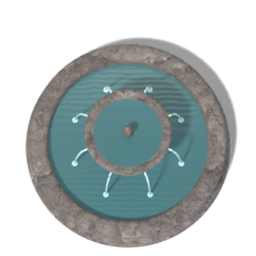
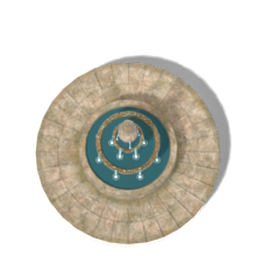
Fountain pictures from the medieval fountain model, water in the bowls

diff --git a/tools/render/build_fountain.py b/tools/render/build_fountain.py
@@ -1,23 +1,35 @@
 """Build + render a stone fountain standing on the ground (with a shadow).  Usage:
 blender -b -P build_fountain.py -- out.png '{"dry":false, "elev":45, ...}'
-A round basin with a pedestal carrying an upper bowl.  Running: both bowls hold water and streams fall from the
-upper bowl's lip into the basin.  Dry: no water, rubble and grime in the basin.
+The model is "Medieval Fountain Empty (Free)" by wolfgar74 (CC-BY 4.0, models/medieval_fountain, see CREDITS.md), with
+its own textures: a drum plinth carrying three stacked bowls and a spire.  Running: water is added in the bowls, with
+spouts from the spire's bulb and streams over the upper lips into the bowl below.  Dry: no water, grime where it
+stood and rubble.
 """
 import bpy, bmesh, math, os, random, sys, json
 from mathutils import Matrix, Vector
 sys.path.insert(0, os.path.dirname(os.path.abspath(__file__)))
-from render_common import link, mat, rig, render, rock_material, studio_world, spot
+from render_common import link, mat, rig, render, studio_world, spot
 
 args = sys.argv[sys.argv.index("--")+1:] if "--" in sys.argv else []
 OUT = args[0] if args else "fountain.png"
-P = dict(dry=False, stone=(0.3, 0.3, 0.31), rock_scale=0.8, water=(0.02, 0.07, 0.08), elev=90, seed=2, save_blend=False)
+P = dict(dry=False, size=2.0, water=(0.012, 0.05, 0.06), elev=90, seed=2, save_blend=False)
 if len(args) > 1:
     P.update(json.loads(args[1]))
 bpy.ops.wm.read_factory_settings(use_empty=True)
 sc = bpy.context.scene
 rnd = random.Random(P["seed"])
+MODEL = os.path.join(os.path.dirname(os.path.abspath(__file__)), "models", "medieval_fountain")
 
+bpy.ops.import_scene.gltf(filepath=os.path.join(MODEL, "scene.gltf"))
+bpy.context.view_layer.update()
 root = bpy.data.objects.new("Fountain", None); sc.collection.objects.link(root)
+K = P["size"]/250                                   # the model is 250 across, its plinth's foot at z=-125
+for o in [o for o in sc.objects if o.type == 'MESH']:
+    o.data.transform(Matrix.Translation((0, 0, 125*K)) @ Matrix.Scale(K, 4) @ o.matrix_world)   # bake + scale, foot at z=0
+    o.parent = root; o.matrix_world = Matrix.Identity(4)
+for o in [o for o in sc.objects if o.type == 'EMPTY' and o is not root]: bpy.data.objects.remove(o)
+Z = lambda z: (z + 125)*K                           # model heights / radii (measured by raycasting) to scene units
+R = lambda r: r*K
 
 def obj(name, bm, material, smooth=True):
     me = bpy.data.meshes.new(name); bm.to_mesh(me); bm.free()
@@ -25,83 +37,98 @@ def obj(name, bm, material, smooth=True):
     o = link(sc, name, me); o.parent = root; o.data.materials.append(material)
     return o
 
-def lathe(profile, segs=64):
-    """Revolve an (r, z) profile, from the axis round to the axis, about Z."""
+def ring(r0, r1, z, segs=64):
+    """Flat annulus (a disk when r0 is 0)."""
     bm = bmesh.new()
-    rings = [[bm.verts.new((r*math.cos(a), r*math.sin(a), z)) for a in (math.tau*k/segs for k in range(segs))] for r, z in profile]
-    for r0, r1 in zip(rings, rings[1:]):
-        for k in range(segs):
-            bm.faces.new((r0[k], r0[(k+1) % segs], r1[(k+1) % segs], r1[k]))
-    bmesh.ops.remove_doubles(bm, verts=bm.verts, dist=1e-5)   # collapse the rings on the axis
-    bmesh.ops.recalc_face_normals(bm, faces=bm.faces)
+    outer = [bm.verts.new((r1*math.cos(a), r1*math.sin(a), z)) for a in (math.tau*k/segs for k in range(segs))]
+    if r0 <= 0:
+        bm.faces.new(outer); return bm
+    inner = [bm.verts.new((r0*math.cos(a), r0*math.sin(a), z)) for a in (math.tau*k/segs for k in range(segs))]
+    for k in range(segs):
+        bm.faces.new((inner[k], inner[(k+1) % segs], outer[(k+1) % segs], outer[k]))
     return bm
 
-def disk(r, z, segs=64):
-    bm = bmesh.new()
-    bm.faces.new([bm.verts.new((r*math.cos(a), r*math.sin(a), z)) for a in (math.tau*k/segs for k in range(segs))])
-    return bm
-
-def tube(path, r, segs=8):
-    """Round tube along a polyline of Vectors."""
+def ribbon(path, w, t, segs=8):
+    """A stream along a polyline: an elliptic tube, w wide (sideways) and t thick, thinning as it falls."""
     bm = bmesh.new(); rings = []
     for i, p in enumerate(path):
-        t = (path[min(i+1, len(path)-1)] - path[max(i-1, 0)]).normalized()
-        u = t.orthogonal().normalized(); v = t.cross(u)
-        rings.append([bm.verts.new(p + r*(math.cos(a)*u + math.sin(a)*v)) for a in (math.tau*k/segs for k in range(segs))])
+        f = 1 - 0.45*i/(len(path) - 1)
+        tg = (path[min(i+1, len(path)-1)] - path[max(i-1, 0)]).normalized()
+        side = tg.cross(Vector((0, 0, 1))).normalized(); up = side.cross(tg)
+        rings.append([bm.verts.new(p + f*(w*math.cos(a)*side + t*math.sin(a)*up)) for a in (math.tau*k/segs for k in range(segs))])
     for r0, r1 in zip(rings, rings[1:]):
         for k in range(segs):
             bm.faces.new((r0[k], r0[(k+1) % segs], r1[(k+1) % segs], r1[k]))
     return bm
 
-stone, tint = rock_material("Stone", P["stone"], P["rock_scale"])
-WL, WU = 0.27, 0.815                                # water levels: basin, upper bowl
-# basin: plinth ring, outer wall with a moulded lip, inner wall, floor
-obj("Basin", lathe([(0, 0.0), (1.1, 0.0), (1.12, 0.04), (1.08, 0.07), (1.02, 0.09), (1.0, 0.3), (1.05, 0.32), (1.06, 0.36),
-                    (1.02, 0.38), (0.9, 0.38), (0.87, 0.36), (0.86, 0.33), (0.86, 0.1), (0.0, 0.1)]), stone)
-# pedestal with a turned shaft and the upper bowl, a finial in the middle
-obj("Pedestal", lathe([(0, 0.1), (0.22, 0.1), (0.2, 0.16), (0.14, 0.2), (0.12, 0.26), (0.13, 0.45), (0.11, 0.6), (0.14, 0.66),
-                       (0.2, 0.7), (0.36, 0.76), (0.44, 0.8), (0.45, 0.84), (0.42, 0.85), (0.39, 0.83), (0.3, 0.79), (0.0, 0.78)]), stone)
-obj("Finial", lathe([(0, 0.78), (0.06, 0.78), (0.05, 0.86), (0.035, 0.9), (0.05, 0.95), (0.03, 1.0), (0.0, 1.02)], segs=24), stone)
+def arc(a, r0, z0, r1, z1, n=12):
+    """Falling water from (r0, z0) out to (r1, z1) at angle a: level start, a parabola down."""
+    d = Vector((math.cos(a), math.sin(a), 0))
+    return [d*(r0 + (r1 - r0)*s) + Vector((0, 0, z0 - (z0 - z1)*s*s)) for s in (i/n for i in range(n + 1))]
+
+# the bowls, inside (from the axis out): water level, inner edge (stem), outer edge (wall); the lip it spills from
+POOLS = [  # level,     r0,      r1,       lip r, lip z
+    (Z(34.0),  R(6.8),  R(15.3),  R(19.8), Z(36.3)),    # top bowl
+    (Z(-4.0),  R(13.4), R(34.4),  R(41.4), Z(0.0)),     # middle bowl
+    (Z(-44.0), R(33.7), R(56.2),  R(66.5), Z(-39.1)),   # lower bowl (the plinth under it stays dry)
+]
+FLOORS = [(Z(24.2), 0, R(13.3)), (Z(-24.0), 0, R(29.7)), (Z(-75.0), R(33.7), R(56.2)), (Z(-75.0), R(66.5), R(119.0))]
 
 if not P["dry"]:
-    water, wb = mat("Water", P["water"], Roughness=0.35)   # rough enough not to mirror the studio bands
-    wb.inputs["Specular IOR Level"].default_value = 0.4
+    water, wb = mat("Water", P["water"], Roughness=0.12, IOR=1.33)
+    wb.inputs["Specular IOR Level"].default_value = 0.3
     nt = water.node_tree; N = nt.nodes.new; Lk = nt.links.new
     tc = N("ShaderNodeTexCoord")
-    rip = N("ShaderNodeTexWave"); rip.wave_type = 'RINGS'; rip.inputs["Scale"].default_value = 6
-    rip.inputs["Distortion"].default_value = 3; Lk(tc.outputs["Object"], rip.inputs["Vector"])
-    bp = N("ShaderNodeBump"); bp.inputs["Strength"].default_value = 0.15; bp.inputs["Distance"].default_value = 0.01
-    Lk(rip.outputs["Fac"], bp.inputs["Height"]); Lk(bp.outputs["Normal"], wb.inputs["Normal"])
-    obj("Water", disk(0.865, WL), water)
-    obj("WaterUp", disk(0.4, WU, 32), water)
-    fall, _ = mat("Fall", (0.22, 0.36, 0.4), Roughness=0.2)   # lighter than the pool so the streams read
-    for k in range(8):                              # streams over the upper lip, arcing out into the basin
-        a = math.tau*(k + 0.5)/8
-        d = Vector((math.cos(a), math.sin(a), 0))
-        path = [d*(0.45 + 0.17*t**0.7) + Vector((0, 0, 0.83 - (0.83 - WL)*t*t)) for t in (i/10 for i in range(11))]
-        obj("Fall", tube(path, 0.01), fall)
-        sp = obj("Splash", disk(0.03, WL + 0.003, 12), fall); sp.location = path[-1].xy.to_3d()
+    rip = N("ShaderNodeTexWave"); rip.wave_type = 'RINGS'; rip.inputs["Scale"].default_value = 9
+    rip.inputs["Distortion"].default_value = 4; Lk(tc.outputs["Object"], rip.inputs["Vector"])
+    nz = N("ShaderNodeTexNoise"); nz.inputs["Scale"].default_value = 40; Lk(tc.outputs["Object"], nz.inputs["Vector"])
+    mx = N("ShaderNodeMath"); mx.operation = 'ADD'; Lk(rip.outputs["Fac"], mx.inputs[0]); Lk(nz.outputs["Fac"], mx.inputs[1])
+    bp = N("ShaderNodeBump"); bp.inputs["Strength"].default_value = 0.25; bp.inputs["Distance"].default_value = 0.004
+    Lk(mx.outputs["Value"], bp.inputs["Height"]); Lk(bp.outputs["Normal"], wb.inputs["Normal"])
+    fall, fb = mat("Fall", (0.3, 0.5, 0.55), Roughness=0.05, Alpha=0.55)   # lighter than the pools so the streams read
+    fb.inputs["Emission Color"].default_value = (0.5, 0.8, 0.9, 1); fb.inputs["Emission Strength"].default_value = 0.08
+    foam, _ = mat("Foam", (0.7, 0.8, 0.82), Roughness=0.5, Alpha=0.5)
+    ripple, _ = mat("Ripple", (0.5, 0.65, 0.7), Roughness=0.2, Alpha=0.25)
+    for m in (water, fall, foam, ripple): m.cycles.emission_sampling = 'NONE'   # (keeps the shadow catcher clean)
+    for lvl, r0, r1, _, _ in POOLS:
+        obj("Water", ring(r0, r1 + R(0.6), lvl), water)   # a little under the walls
+
+    def stream(a, r0, z0, r1, z1, w, t, n=12):
+        obj("Fall", ribbon(arc(a, r0, z0, r1, z1, n), w, t), fall)
+        p = Vector((math.cos(a), math.sin(a), 0))*r1   # foam where it lands and a ripple ring round it
+        obj("Foam", ring(0, w*1.1, z1 + 0.002, 20), foam).location = (p.x, p.y, 0)
+        obj("Ripple", ring(w*2.0, w*2.4, z1 + 0.002, 24), ripple).location = (p.x, p.y, 0)
+
+    for k in range(4):                              # spouts from the spire's bulb into the top bowl
+        stream(math.tau*(k + 0.125)/4, R(11.5), Z(66.0), R(14.2), POOLS[0][0], 0.006, 0.005, 8)
+    for i, n in ((0, 6), (1, 8)):                   # the upper bowls spill over their lips into the bowl below
+        _, _, _, lr, lz = POOLS[i]; below, b0, b1 = POOLS[i+1][:3]
+        for k in range(n):
+            stream(math.tau*(k + 0.5*(i % 2))/n, lr - R(1.5), lz + R(1.0), b0 + (b1 - b0)*0.35, below, 0.014, 0.006)
 else:
-    grime = stone.copy()                            # dark stain where the water stood
-    grime.node_tree.nodes[tint.name].inputs["B"].default_value = (*[c*0.4 for c in P["stone"]], 1)
-    obj("Silt", disk(0.865, 0.105), grime)
-    obj("SiltUp", disk(0.4, 0.785, 32), grime)
-    for k in range(9):                              # fallen bits of the lip and rubble in the dry basin
-        a = rnd.uniform(0, math.tau); d = rnd.uniform(0.3, 0.8); s = rnd.uniform(0.04, 0.09)
+    grime, _ = mat("Grime", (0.06, 0.055, 0.045), Roughness=0.95, Alpha=0.5)   # dark stain where the water stood
+    for z, r0, r1 in FLOORS:
+        obj("Silt", ring(r0, r1, z + 0.002), grime)
+    tex = bpy.data.materials["GardenFountainBase"]
+    for k in range(11):                             # fallen bits of the lips: rubble in the lower bowl and on the plinth
+        lower = k < 4
+        a = rnd.uniform(0, math.tau); d = rnd.uniform(0.33, 0.52) if lower else rnd.uniform(0.6, 0.9)
+        s = rnd.uniform(0.03, 0.06)
         bm = bmesh.new(); bmesh.ops.create_icosphere(bm, subdivisions=1, radius=1)
         for v in bm.verts:
             v.co = Vector((v.co.x*s, v.co.y*s*rnd.uniform(0.7, 1.1), v.co.z*s*0.6))*rnd.uniform(0.8, 1.15)
-        bm.transform(Matrix.Translation((d*math.cos(a), d*math.sin(a), 0.1 + s*0.4)) @ Matrix.Rotation(rnd.uniform(0, math.tau), 4, 'Z'))
-        obj("Rubble", bm, stone, smooth=False)
+        z = FLOORS[2][0] if lower else FLOORS[3][0]
+        bm.transform(Matrix.Translation((d*math.cos(a), d*math.sin(a), z + s*0.35)) @ Matrix.Rotation(rnd.uniform(0, math.tau), 4, 'Z'))
+        obj("Rubble", bm, tex, smooth=False)
 
 gp = bmesh.new(); bmesh.ops.create_grid(gp, x_segments=1, y_segments=1, size=10)
 gm = bpy.data.meshes.new("Ground"); gp.to_mesh(gm); gp.free()
 link(sc, "Ground", gm).is_shadow_catcher = True
 
-rig(sc, tgt=Vector((0, 0, 0.4)), elev=P["elev"])
+rig(sc, tgt=Vector((0, 0, 0.6)), elev=P["elev"])
 sc.camera.data.lens = 68                          # same scale as the stairs
-studio_world(sc, 0.4)
-spot(sc, (-3, -4, 4), 150, (1, 0.95, 0.85), tgt=Vector((0, 0, 0))); spot(sc, (3, -3, 3), 80, (1, 1, 1), tgt=Vector((0, 0, 0)))
+studio_world(sc, 0.5)
+spot(sc, (-3, -4, 4), 150, (1, 0.95, 0.85), tgt=Vector((0, 0, 0.5))); spot(sc, (3, -3, 3), 80, (1, 1, 1), tgt=Vector((0, 0, 0.5)))
 sun = bpy.data.lights.new("Sun", 'SUN'); sun.energy = 5; sun.angle = math.radians(6)
 so = link(sc, "Sun", sun); so.rotation_euler = (math.radians(32), 0, math.radians(-40))
 for l in bpy.data.lights:                          # only the sun darkens the ground (see build_throne.py)

diff --git a/CREDITS.md b/CREDITS.md
@@ -2,7 +2,7 @@
 
 The pictures in `Media/` are rendered with Blender by the scripts in `tools/render/`. Most of what is in them is
 modelled and shaded by those scripts; these are the outside models and textures they use. Most are CC0 (public
-domain): no credit is required, but it is given here with thanks. The throne is CC-BY 4.0, which requires it, and so is the shield.
+domain): no credit is required, but it is given here with thanks. The throne, the fountain and the shield are CC-BY 4.0, which requires it.
 
 ## Models
 
@@ -11,9 +11,11 @@ domain): no credit is required, but it is given here with thanks. The throne is 
 | Gothic Statue | Benny Weimer | [Poly Haven](https://polyhaven.com/a/gothic_statue) | [CC0](https://polyhaven.com/license) | the great marble statue (`tools/render/models/gothic_statue/`), re-surfaced as marble |
 | Demon King Throne – Dark Fantasy Gothic Chair | [UNREAL JOELAB](https://sketchfab.com/Unreal_Joelab) | [Sketchfab](https://sketchfab.com/3d-models/demon-king-throne-dark-fantasy-gothic-chair-83ccfc1c656644278655b113f4083700) | [CC-BY 4.0](http://creativecommons.org/licenses/by/4.0/) | the thrones (`tools/render/models/demon_king_throne/`), with jewels in gold settings added (or their empty sockets, for the pried-off throne) |
 | Altar - Low Poly Medieval | [Avramania](https://sketchfab.com/Avramania) | [Sketchfab](https://sketchfab.com/3d-models/altar-low-poly-medieval-cc0-331b9599fc0f4e19ab5eeb44406fd4ef) | [CC0](http://creativecommons.org/publicdomain/zero/1.0/) | the holy altar (`tools/render/models/altar/`), re-surfaced as marble and gold, with candle flames and a holy glow added |
+| Medieval Fountain Empty (Free) | [wolfgar74](https://sketchfab.com/wolfgar74) | [Sketchfab](https://sketchfab.com/3d-models/medieval-fountain-empty-free-952a9c257db641229902c36abb97e8bc) | [CC-BY 4.0](http://creativecommons.org/licenses/by/4.0/) | the fountains (`tools/render/models/medieval_fountain/`), with its own textures; water, streams and the dry fountain's grime and rubble added |
 | Medieval Shield | [Artem Mykhailov](https://sketchfab.com/CGArtem) | [Sketchfab](https://sketchfab.com/3d-models/medieval-shield-b98b8f64d935415aab0fe9b70074511f) | [CC-BY 4.0](http://creativecommons.org/licenses/by/4.0/) | the shield (`tools/render/models/medieval_shield/`), with its own textures |
 
 The thrones are based on "Demon King Throne – Dark Fantasy Gothic Chair" by UNREAL JOELAB, licensed under CC-BY 4.0.
+The fountains are based on "Medieval Fountain Empty (Free)" by wolfgar74, licensed under CC-BY 4.0.
 The shield is based on "Medieval Shield" by Artem Mykhailov, licensed under CC-BY 4.0.
 
 The large model textures are scaled down to 1024 px (the pictures are rendered at 512).
